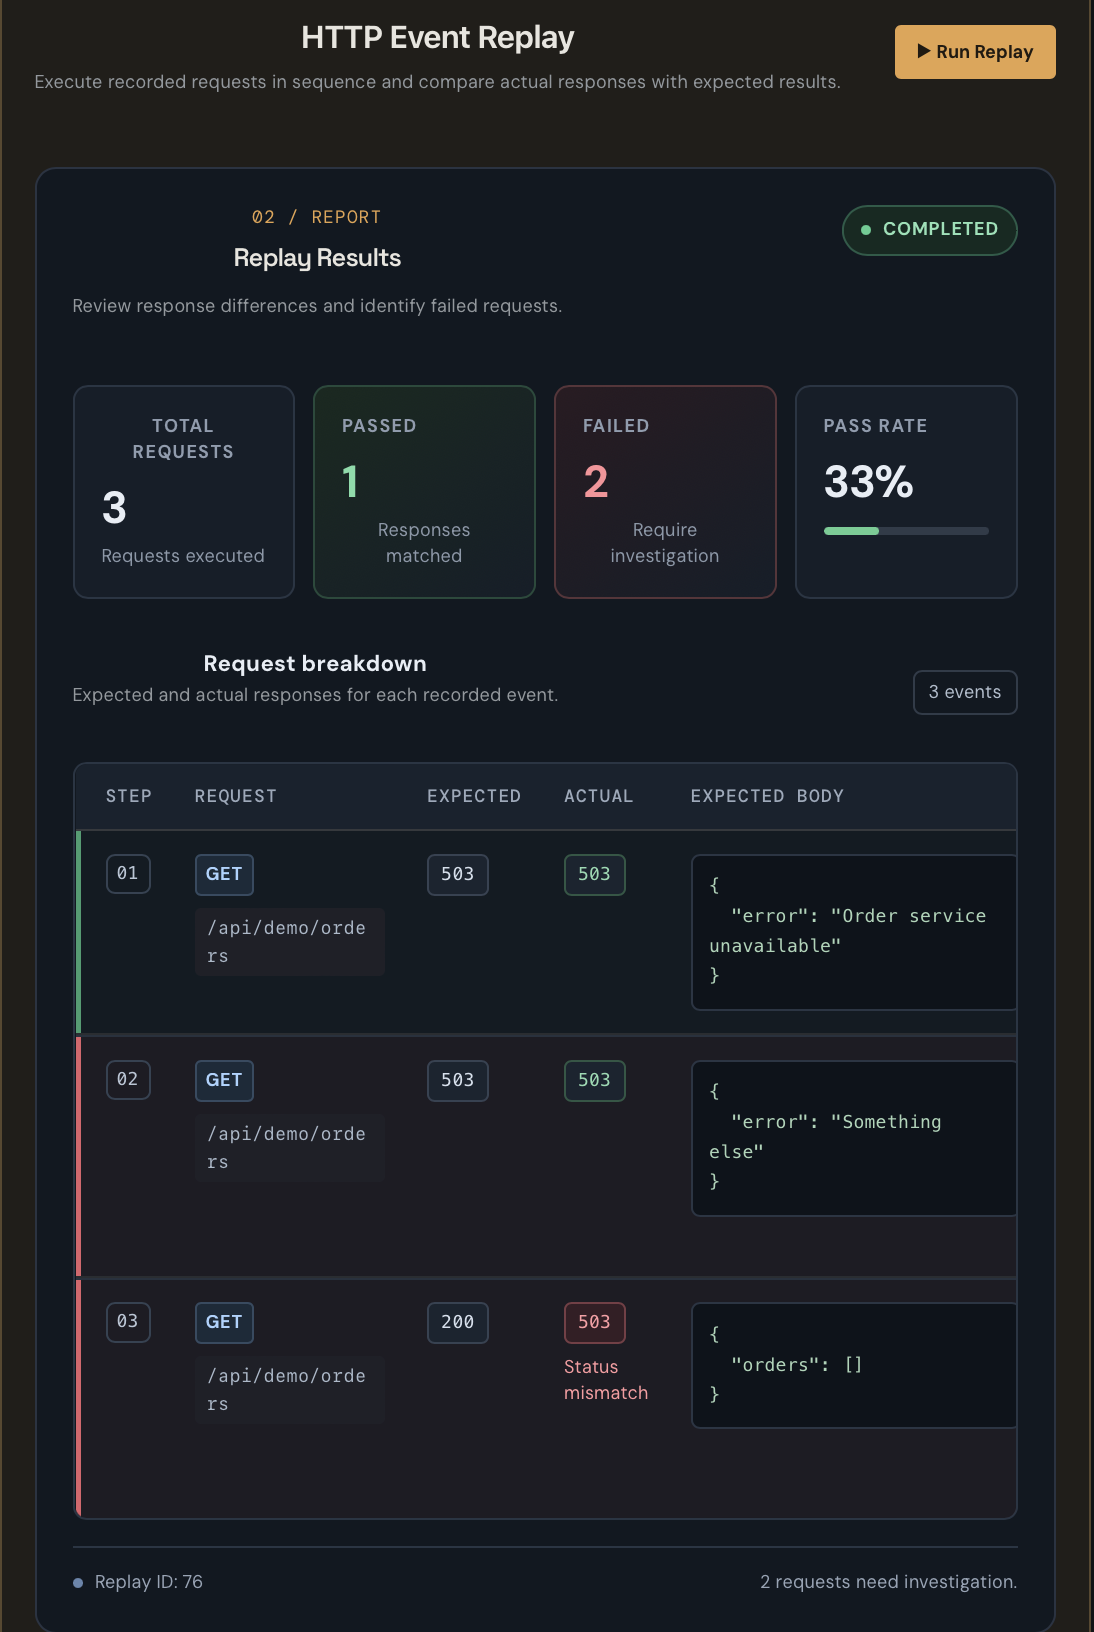
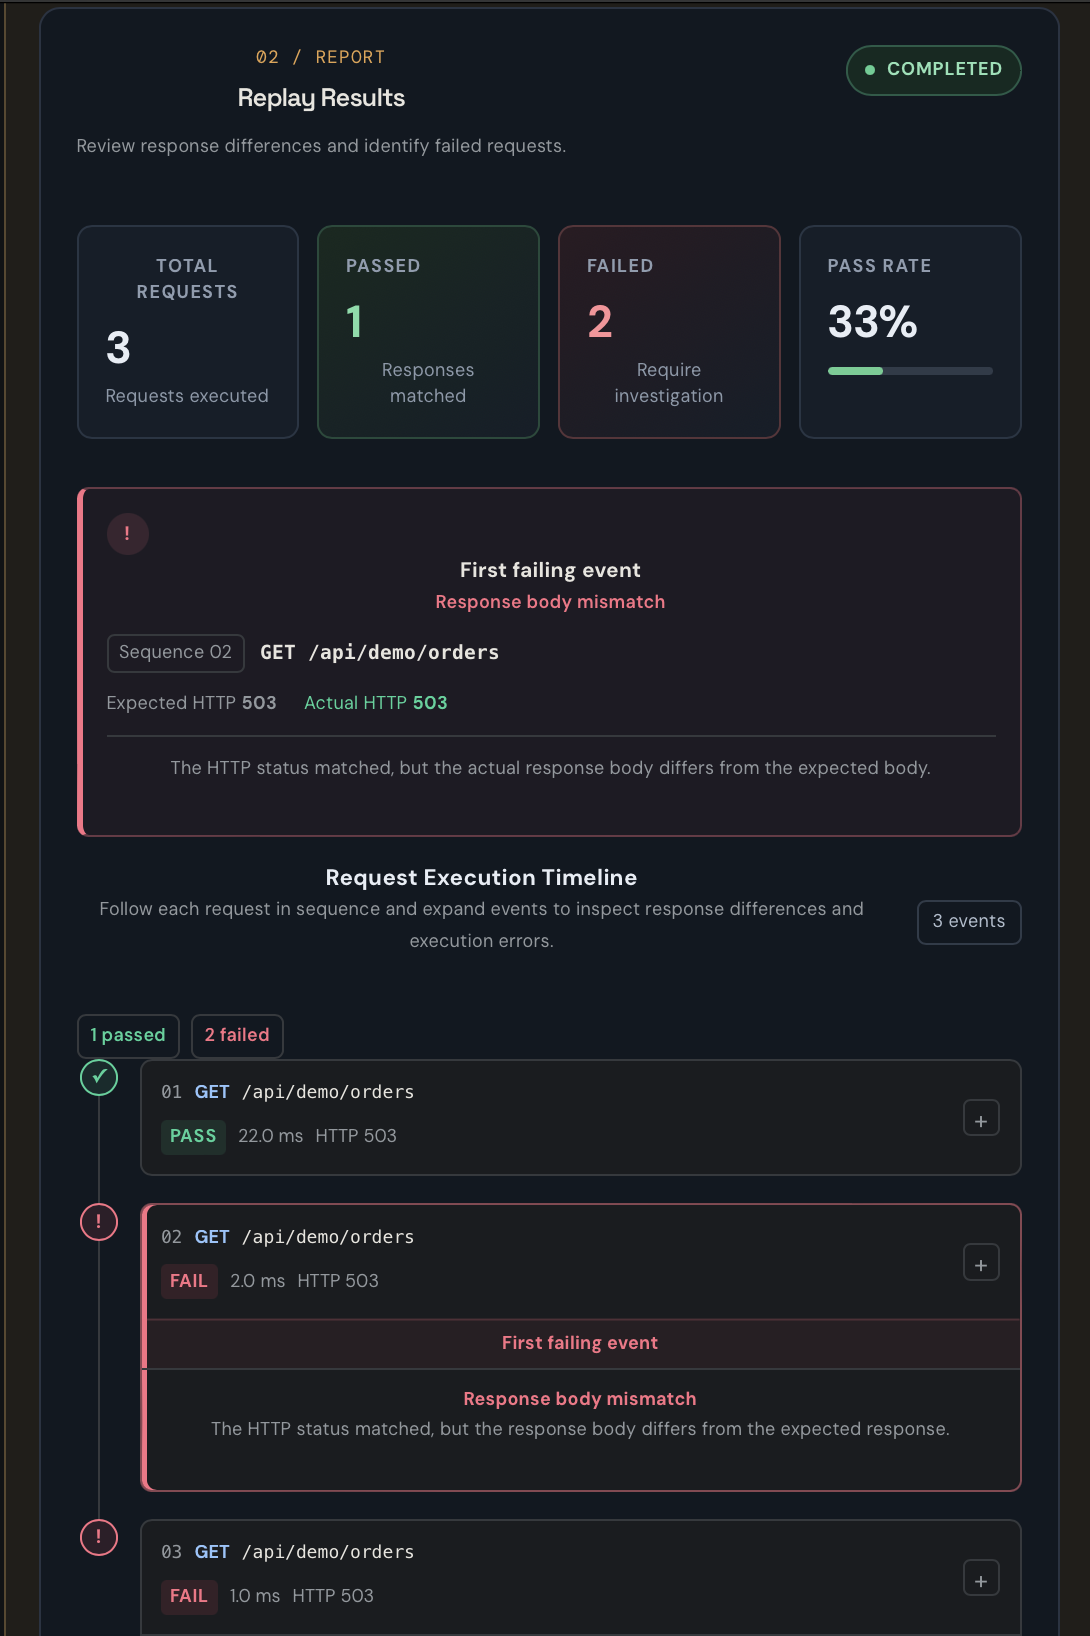
Update README with replay workflow screenshots

diff --git a/README.md b/README.md
@@ -1,21 +1,25 @@
 # RETRACE — Incident Replay & Debugging Platform
 
-RETRACE is a full-stack incident management and HTTP replay platform built to help developers investigate API failures, reproduce unexpected behavior, and identify differences between expected and actual responses.
+RETRACE is a full-stack incident management and HTTP replay platform designed to help developers investigate API failures, reproduce unexpected behavior, and identify differences between expected and actual responses.
 
-The platform allows developers to organize incidents, record HTTP request sequences, execute replays, and inspect detailed request-level results through a centralized dashboard.
+The platform allows developers to organize incidents, record ordered HTTP request sequences, execute replays, inspect response differences, and compare results across replay runs through a centralized debugging dashboard.
 
 ---
 
 ## Features
 
 - **Incident Management:** Create and organize incidents with descriptions and severity levels.
-- **Incident Dashboard:** View total, open, and resolved incidents.
+- **Incident Dashboard:** View incident statistics, including total, open, and resolved incidents.
 - **Search and Filtering:** Search incidents by title, description, severity, status, or ID and filter by status.
-- **HTTP Event Recording:** Associate ordered HTTP requests with incidents, including methods, paths, expected status codes, and JSON request and response bodies.
-- **HTTP Replay Execution:** Execute recorded HTTP events through the backend replay workflow.
-- **Replay Reports:** Compare expected and actual HTTP status codes and response bodies, with per-request PASS/FAIL results, execution durations, and error details.
+- **HTTP Event Recording:** Associate ordered HTTP requests with incidents, including methods, paths, expected status codes, headers, and JSON request and response bodies.
+- **HTTP Replay Execution:** Execute recorded HTTP events sequentially through the backend replay workflow.
+- **Response Diff Viewer:** Compare expected and actual HTTP responses to identify status-code mismatches and differences in JSON response bodies.
+- **Request Timeline:** Inspect recorded HTTP events in sequence to understand the order of requests associated with an incident.
+- **Replay Reports:** View per-request PASS/FAIL results, execution durations, actual responses, and error details.
+- **Replay History:** Browse previous replay runs and review their request counts, pass rates, and failure summaries.
+- **Replay Comparison:** Compare an earlier replay against a newer run to identify improved requests, regressions, unchanged results, and newly recorded events.
 - **Input Validation:** Validate incident details, sequence numbers, HTTP status codes, request paths, and JSON bodies.
-- **API Error Handling:** Display API errors and provide retry actions when loading incidents or events fails.
+- **API Error Handling:** Display actionable API errors and provide retry options when supported.
 
 ---
 
@@ -44,26 +48,60 @@ The platform allows developers to organize incidents, record HTTP request sequen
 
 ## Application Screenshots
 
-### Incident Dashboard
+The following screenshots demonstrate the main incident investigation and replay workflows.
+
+### 1. Incident Dashboard
+
+View incidents, search and filter records, and identify issues that need investigation.
 
 ![RETRACE Incident Dashboard](docs/screenshots/incident-dashboard.png)
 
-### HTTP Replay Report
+### 2. HTTP Replay Report and Response Diff Viewer
+
+Inspect replay results, compare expected and actual responses, and identify failed requests.
 
 ![RETRACE HTTP Replay Report](docs/screenshots/replay-report.png)
+
+### 3. Recorded HTTP Request Timeline
+
+Review the ordered HTTP events associated with an incident, including request methods, paths, and expected status codes.
+
+![RETRACE Request Timeline](docs/screenshots/request-timeline.png)
+
+### 4. Replay History and Comparison
+
+Browse previous replay runs, compare pass rates, and inspect request-level changes between a baseline replay and a newer run.
+
+![RETRACE Replay History and Comparison](docs/screenshots/replay-history.png)
+
+**Note:** Ensure the screenshot files exist at these paths in your repository. Update the filenames if necessary.
 
 ---
 
 ## How It Works
 
-1. Create an incident describing an API failure.
-2. Open the incident details page.
-3. Record HTTP events in the order they should execute.
-4. Specify the expected HTTP status code and, optionally, an expected JSON response body for each event.
-5. Run the replay to execute the recorded request sequence.
-6. Inspect the replay report to identify passing requests, status-code mismatches, response-body differences, and execution errors.
+1. **Create an incident:** Describe the API failure and assign a severity level.
+2. **Record HTTP events:** Add the requests associated with the incident in their intended execution order.
+3. **Define expected behavior:** Specify the expected HTTP status code and, optionally, the expected JSON response body for each event.
+4. **Execute a replay:** Run the recorded requests sequentially against the configured demo API.
+5. **Inspect response differences:** Use the replay report and response diff viewer to identify mismatches between expected and actual behavior.
+6. **Review the request timeline:** Examine the recorded request sequence to understand the order of operations.
+7. **Track replay history:** Run the replay again after investigating or fixing an issue.
+8. **Compare replay runs:** Compare previous and newer runs to see whether failures have improved, persisted, or regressed.
 
 **Important:** At least one HTTP event must be recorded before a replay can be started.
+
+---
+
+## Development Progression
+
+RETRACE was developed incrementally, with each feature building on the previous debugging workflow.
+
+- **Response Diff Viewer:** Built the initial request-level debugging experience to compare expected and actual HTTP responses and highlight failures.
+- **Request Timeline:** Added an ordered view of recorded HTTP events to make request sequences easier to inspect and understand.
+- **Replay History and Comparison:** Added historical replay tracking and the ability to compare runs, monitor pass-rate changes, and identify improvements or regressions.
+
+This progression evolved RETRACE from a tool for inspecting a single replay into a more complete workflow for investigating incidents and verifying fixes across repeated executions.
 
 ---
 
@@ -71,11 +109,13 @@ The platform allows developers to organize incidents, record HTTP request sequen
 
 Imagine an order service that returns unexpected HTTP `503 Service Unavailable` responses.
 
-A developer creates an incident, records a sequence of HTTP requests, and defines the expected status codes and response bodies for each request.
+A developer creates an incident, records several HTTP requests, and defines the expected status codes and response bodies.
 
-After executing the replay, the report shows which requests passed, which failed, and where the actual behavior diverged from expectations.
+After executing a replay, the response diff viewer identifies requests that do not match expectations. The request timeline helps the developer inspect the execution sequence.
 
-This makes it easier to investigate failures without relying solely on manually reproducing requests.
+Once the underlying issue has been investigated and a fix has been applied, the developer runs the replay again and compares the latest results with a previous run. Replay history makes it easier to determine whether the fix improved the results or introduced regressions.
+
+This workflow supports repeatable API debugging without relying solely on manually reproducing requests.
 
 ---
 
@@ -85,6 +125,9 @@ This makes it easier to investigate failures without relying solely on manually 
 RETRACE/
 ├── frontend/
 │   └── src/
+│       ├── components/
+│       │   ├── ReplayHistory.tsx
+│       │   └── ReplayHistory.css
 │       ├── services/
 │       │   └── api.ts
 │       ├── App.tsx
@@ -93,10 +136,13 @@ RETRACE/
 ├── backend/
 │   ├── src/
 │   │   ├── controllers/
+│   │   │   └── replayController.ts
 │   │   ├── db/
 │   │   ├── repositories/
 │   │   ├── routes/
+│   │   │   └── replayRoutes.ts
 │   │   ├── services/
+│   │   │   └── replayService.ts
 │   │   ├── app.ts
 │   │   └── server.ts
 │   ├── test/
@@ -104,9 +150,15 @@ RETRACE/
 │   └── tsconfig.json
 ├── docs/
 │   └── screenshots/
+│       ├── incident-dashboard.png
+│       ├── replay-report.png
+│       ├── request-timeline.png
+│       └── replay-history.png
 ├── README.md
 └── .gitignore
 ````
+
+Note: This is an illustrative project structure. Adjust filenames and folders to match your actual repository.
 
 ## Getting Started
 
@@ -116,6 +168,7 @@ Make sure you have the following installed:
 
 - Node.js and npm
 - PostgreSQL
+- Git
 
 ### 1. Clone the Repository
 
@@ -210,21 +263,23 @@ Check `backend/package.json` for the available test scripts.
 
 ## Future Improvements
 
-- Replay history and comparisons between previous runs.
-- Visual JSON response diffs.
-- Incident status updates and resolution workflows.
-- Pagination and advanced filtering.
 - Automated frontend and API integration tests.
+- Pagination and advanced filtering for incidents and replay history.
+- More advanced response-diff visualization and replay analytics.
+- Incident status updates and resolution workflows.
 - Authentication and multi-user workspaces.
 - Cloud deployment and hosted database support.
 
 ## What I Learned
 
-- Building a full-stack application with React and TypeScript.
+- Building a full-stack application using React and TypeScript.
 - Designing REST API integrations and handling asynchronous requests.
-- Modeling incident, event, and replay data in PostgreSQL.
+- Modeling incident, event, replay-run, and replay-result data in PostgreSQL.
+- Building an HTTP replay workflow to execute recorded requests sequentially.
+- Comparing expected and actual API responses to support debugging.
+- Designing a request timeline for inspecting recorded HTTP events.
+- Tracking historical replay results and comparing runs to verify fixes and identify regressions.
 - Validating structured request data and displaying actionable errors.
-- Comparing expected and actual API behavior to support debugging workflows.
 
 ## Built With
 
